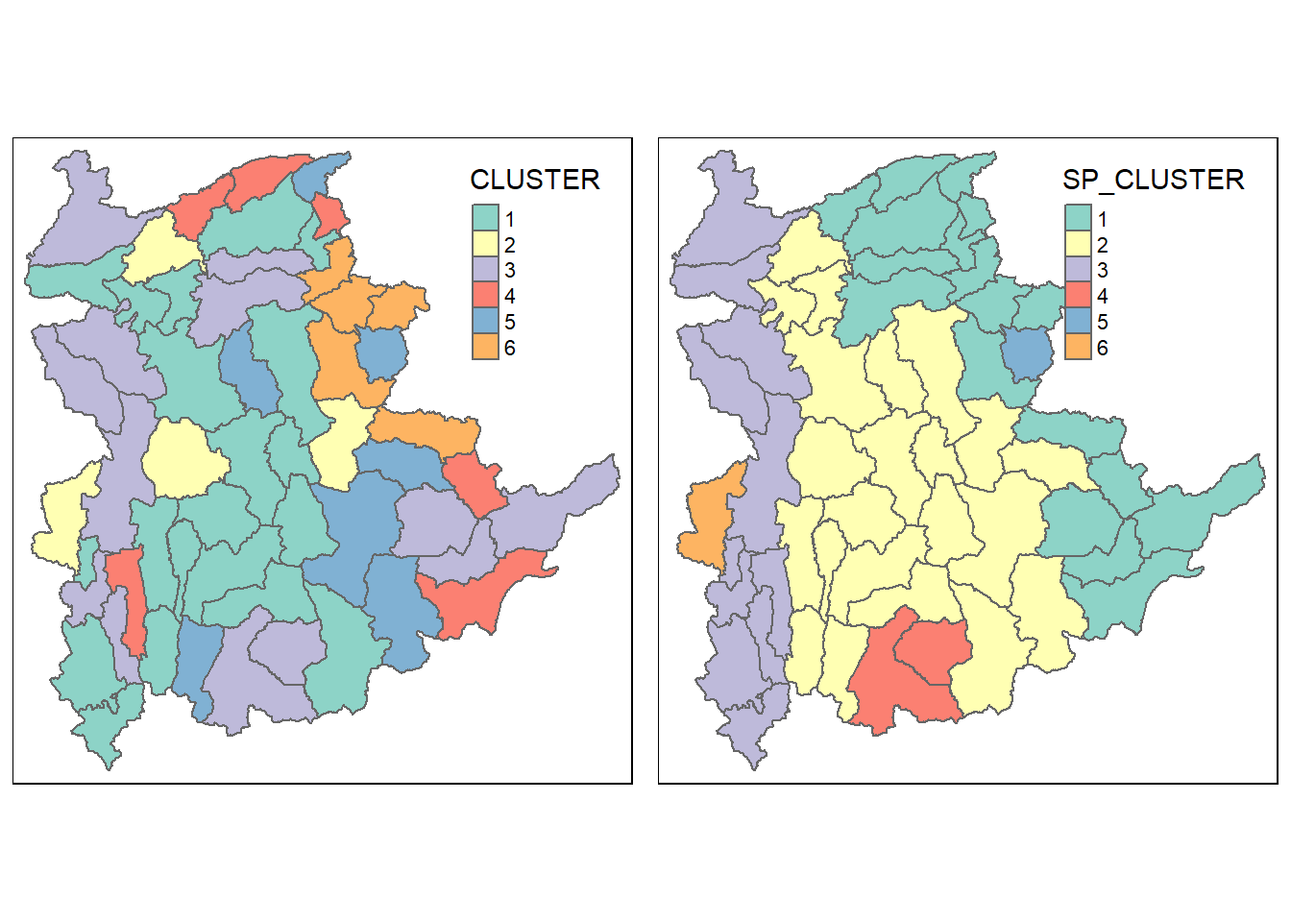
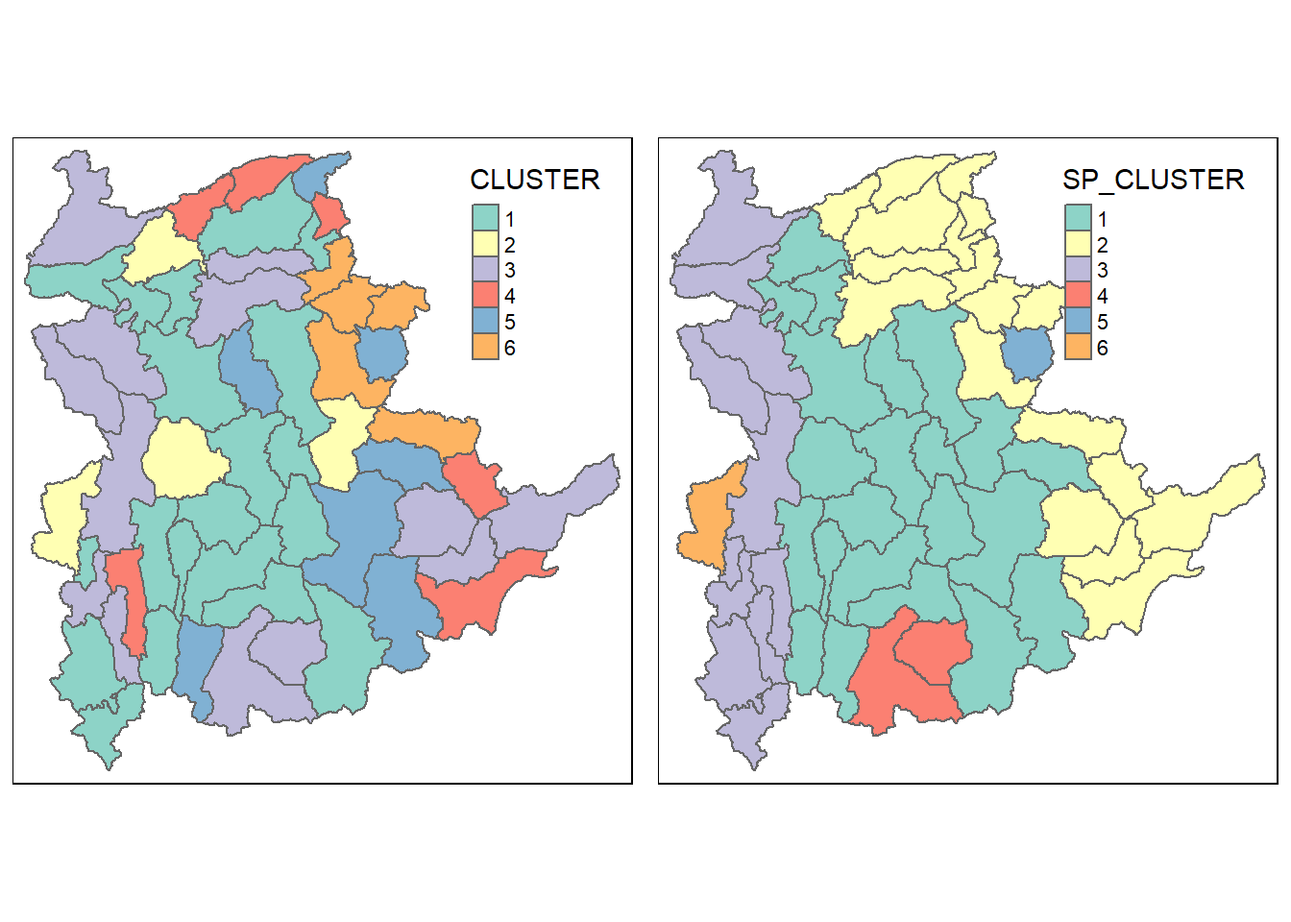
exercise 8

Changed region(s): [[0.5938, 0.1562, 1.0, 0.7812]]

diff --git a/_site/Hands-on_Ex/Hands-on_Ex08/Hands-on_Ex08.html b/_site/Hands-on_Ex/Hands-on_Ex08/Hands-on_Ex08.html
@@ -240,21 +240,21 @@ pre > code.sourceCode > span > a:first-child::before { text-decoration: underlin
   <li><a href="#learning-outcome-explanation" id="toc-learning-outcome-explanation" class="nav-link" data-scroll-target="#learning-outcome-explanation"><strong>Learning Outcome Explanation</strong></a></li>
   <li><a href="#getting-started-explanation" id="toc-getting-started-explanation" class="nav-link" data-scroll-target="#getting-started-explanation"><strong>Getting Started Explanation</strong></a></li>
   <li><a href="#installing-and-loading-r-packages-explanation" id="toc-installing-and-loading-r-packages-explanation" class="nav-link" data-scroll-target="#installing-and-loading-r-packages-explanation"><strong>Installing and Loading R Packages Explanation</strong></a></li>
-  <li><a href="#data-import-and-preparation-explanation" id="toc-data-import-and-preparation-explanation" class="nav-link" data-scroll-target="#data-import-and-preparation-explanation"><strong>Data Import and Preparation Explanation</strong></a></li>
-  <li><a href="#spatially-constrained-clustering-skater-approach" id="toc-spatially-constrained-clustering-skater-approach" class="nav-link" data-scroll-target="#spatially-constrained-clustering-skater-approach"><strong>Spatially Constrained Clustering: SKATER approach</strong></a>
+  <li><a href="#data-import-and-preparation-explanation" id="toc-data-import-and-preparation-explanation" class="nav-link" data-scroll-target="#data-import-and-preparation-explanation"><strong>Data Import and Preparation Explanation</strong></a>
   <ul class="collapse">
-  <li><a href="#computing-neighbour-list" id="toc-computing-neighbour-list" class="nav-link" data-scroll-target="#computing-neighbour-list"><strong>Computing Neighbour List</strong></a></li>
-  <li><a href="#computing-minimum-spanning-tree" id="toc-computing-minimum-spanning-tree" class="nav-link" data-scroll-target="#computing-minimum-spanning-tree"><strong>Computing minimum spanning tree</strong></a></li>
-  <li><a href="#computing-minimum-spanning-tree-1" id="toc-computing-minimum-spanning-tree-1" class="nav-link" data-scroll-target="#computing-minimum-spanning-tree-1"><strong>Computing minimum spanning tree</strong></a></li>
-  <li><a href="#computing-spatially-constrained-clusters-using-skater-method" id="toc-computing-spatially-constrained-clusters-using-skater-method" class="nav-link" data-scroll-target="#computing-spatially-constrained-clusters-using-skater-method"><strong>Computing spatially constrained clusters using SKATER method</strong></a></li>
-  <li><a href="#visualising-the-clusters-in-choropleth-map" id="toc-visualising-the-clusters-in-choropleth-map" class="nav-link" data-scroll-target="#visualising-the-clusters-in-choropleth-map"><strong>Visualising the clusters in choropleth map</strong></a></li>
+  <li><a href="#spatially-constrained-clustering-skater-approach" id="toc-spatially-constrained-clustering-skater-approach" class="nav-link" data-scroll-target="#spatially-constrained-clustering-skater-approach"><strong>Spatially Constrained Clustering: SKATER Approach</strong></a></li>
+  <li><a href="#computing-neighbour-listcomputing-neighbour-list" id="toc-computing-neighbour-listcomputing-neighbour-list" class="nav-link" data-scroll-target="#computing-neighbour-listcomputing-neighbour-list"><strong>Computing Neighbour ListComputing Neighbour List</strong></a></li>
+  <li><a href="#computing-minimum-spanning-tree-mst" id="toc-computing-minimum-spanning-tree-mst" class="nav-link" data-scroll-target="#computing-minimum-spanning-tree-mst"><strong>Computing Minimum Spanning Tree (MST)</strong></a></li>
+  <li><a href="#constructing-the-minimum-spanning-tree" id="toc-constructing-the-minimum-spanning-tree" class="nav-link" data-scroll-target="#constructing-the-minimum-spanning-tree"><strong>Constructing the Minimum Spanning Tree</strong></a></li>
+  <li><a href="#computing-spatially-constrained-clusters-using-the-skater-method" id="toc-computing-spatially-constrained-clusters-using-the-skater-method" class="nav-link" data-scroll-target="#computing-spatially-constrained-clusters-using-the-skater-method"><strong>Computing Spatially Constrained Clusters Using the SKATER Method</strong></a></li>
+  <li><a href="#visualizing-the-clusters-in-a-choropleth-map" id="toc-visualizing-the-clusters-in-a-choropleth-map" class="nav-link" data-scroll-target="#visualizing-the-clusters-in-a-choropleth-map"><strong>Visualizing the Clusters in a Choropleth Map</strong></a></li>
   </ul></li>
-  <li><a href="#spatially-constrained-clustering-clustgeo-method" id="toc-spatially-constrained-clustering-clustgeo-method" class="nav-link" data-scroll-target="#spatially-constrained-clustering-clustgeo-method"><strong>Spatially Constrained Clustering: ClustGeo Method</strong></a>
+  <li><a href="#spatially-constrained-clustering-using-the-clustgeo-method" id="toc-spatially-constrained-clustering-using-the-clustgeo-method" class="nav-link" data-scroll-target="#spatially-constrained-clustering-using-the-clustgeo-method"><strong>Spatially Constrained Clustering Using the ClustGeo Method</strong></a>
   <ul class="collapse">
-  <li><a href="#a-short-note-about-clustgeo-package" id="toc-a-short-note-about-clustgeo-package" class="nav-link" data-scroll-target="#a-short-note-about-clustgeo-package"><strong>A short note about ClustGeo package</strong></a></li>
-  <li><a href="#ward-like-hierarchical-clustering-clustgeo" id="toc-ward-like-hierarchical-clustering-clustgeo" class="nav-link" data-scroll-target="#ward-like-hierarchical-clustering-clustgeo"><strong>Ward-like hierarchical clustering: ClustGeo</strong></a></li>
+  <li><a href="#ward-like-hierarchical-clustering-using-clustgeo" id="toc-ward-like-hierarchical-clustering-using-clustgeo" class="nav-link" data-scroll-target="#ward-like-hierarchical-clustering-using-clustgeo"><strong>Ward-Like Hierarchical Clustering Using ClustGeo</strong></a></li>
   <li><a href="#spatially-constrained-hierarchical-clustering" id="toc-spatially-constrained-hierarchical-clustering" class="nav-link" data-scroll-target="#spatially-constrained-hierarchical-clustering"><strong>Spatially Constrained Hierarchical Clustering</strong></a></li>
   </ul></li>
+  <li><a href="#visual-interpretation-of-clusters" id="toc-visual-interpretation-of-clusters" class="nav-link" data-scroll-target="#visual-interpretation-of-clusters"><strong>Visual Interpretation of Clusters</strong></a></li>
   </ul></li>
   </ul>
 </nav>
@@ -442,14 +442,16 @@ dbl (7): Total households, Radio, Television, Land line phone, Mobile phone,...
 </div>
 </div>
 </section>
-</section>
-<section id="spatially-constrained-clustering-skater-approach" class="level2">
-<h2 class="anchored" data-anchor-id="spatially-constrained-clustering-skater-approach"><strong>Spatially Constrained Clustering: SKATER approach</strong></h2>
+<section id="spatially-constrained-clustering-skater-approach" class="level3">
+<h3 class="anchored" data-anchor-id="spatially-constrained-clustering-skater-approach"><strong>Spatially Constrained Clustering: SKATER Approach</strong></h3>
+<p>In this section, I applied the <strong>SKATER (Spatial ’K’luster Analysis by Tree Edge Removal)</strong> approach to perform spatially constrained clustering. I started by converting the <code>shan_sf</code> spatial data into an <code>as_Spatial()</code> format, which is necessary for certain spatial clustering methods.</p>
 <div class="cell">
 <div class="sourceCode cell-code" id="cb12"><pre class="sourceCode r code-with-copy"><code class="sourceCode r"><span id="cb12-1"><a href="#cb12-1" aria-hidden="true" tabindex="-1"></a>shan_sp <span class="ot">&lt;-</span> <span class="fu">as_Spatial</span>(shan_sf)</span></code><button title="Copy to Clipboard" class="code-copy-button"><i class="bi"></i></button></pre></div>
 </div>
-<section id="computing-neighbour-list" class="level3">
-<h3 class="anchored" data-anchor-id="computing-neighbour-list"><strong>Computing Neighbour List</strong></h3>
+</section>
+<section id="computing-neighbour-listcomputing-neighbour-list" class="level3">
+<h3 class="anchored" data-anchor-id="computing-neighbour-listcomputing-neighbour-list"><strong>Computing Neighbour ListComputing Neighbour List</strong></h3>
+<p>I created a neighbor list using the <code>poly2nb()</code> function, which identifies which polygons (townships) in <code>shan_sp</code> share borders. The neighbor relationships are crucial for defining the spatial structure of the data, and I summarized the neighbor list to understand its characteristics.</p>
 <div class="cell">
 <div class="sourceCode cell-code" id="cb13"><pre class="sourceCode r code-with-copy"><code class="sourceCode r"><span id="cb13-1"><a href="#cb13-1" aria-hidden="true" tabindex="-1"></a>shan.nb <span class="ot">&lt;-</span> <span class="fu">poly2nb</span>(shan_sp)</span>
 <span id="cb13-2"><a href="#cb13-2" aria-hidden="true" tabindex="-1"></a><span class="fu">summary</span>(shan.nb)</span></code><button title="Copy to Clipboard" class="code-copy-button"><i class="bi"></i></button></pre></div>
@@ -489,10 +491,11 @@ Link number distribution:
 </div>
 </div>
 </section>
-<section id="computing-minimum-spanning-tree" class="level3">
-<h3 class="anchored" data-anchor-id="computing-minimum-spanning-tree"><strong>Computing minimum spanning tree</strong></h3>
+<section id="computing-minimum-spanning-tree-mst" class="level3">
+<h3 class="anchored" data-anchor-id="computing-minimum-spanning-tree-mst"><strong>Computing Minimum Spanning Tree (MST)</strong></h3>
 <section id="calculating-edge-costs" class="level4">
-<h4 class="anchored" data-anchor-id="calculating-edge-costs">Calculating edge costs</h4>
+<h4 class="anchored" data-anchor-id="calculating-edge-costs"><strong>Calculating Edge Costs</strong></h4>
+<p>I calculated the edge costs for the minimum spanning tree based on the ICT variables. First, I prepared the <code>ict_derived</code> dataset by calculating the proportion of households with each ICT service and merged this dataset with the <code>shan_sf</code> spatial data.</p>
 <div class="cell">
 <div class="sourceCode cell-code" id="cb17"><pre class="sourceCode r code-with-copy"><code class="sourceCode r"><span id="cb17-1"><a href="#cb17-1" aria-hidden="true" tabindex="-1"></a>ict_derived <span class="ot">&lt;-</span> ict <span class="sc">%&gt;%</span></span>
 <span id="cb17-2"><a href="#cb17-2" aria-hidden="true" tabindex="-1"></a>  <span class="fu">mutate</span>(<span class="st">`</span><span class="at">RADIO_PR</span><span class="st">`</span> <span class="ot">=</span> <span class="st">`</span><span class="at">Radio</span><span class="st">`</span><span class="sc">/</span><span class="st">`</span><span class="at">Total households</span><span class="st">`</span><span class="sc">*</span><span class="dv">1000</span>) <span class="sc">%&gt;%</span></span>
@@ -589,8 +592,9 @@ B 55 3025 76267.65 58260785 522016004</code></pre>
 </div>
 </section>
 </section>
-<section id="computing-minimum-spanning-tree-1" class="level3">
-<h3 class="anchored" data-anchor-id="computing-minimum-spanning-tree-1"><strong>Computing minimum spanning tree</strong></h3>
+<section id="constructing-the-minimum-spanning-tree" class="level3">
+<h3 class="anchored" data-anchor-id="constructing-the-minimum-spanning-tree"><strong>Constructing the Minimum Spanning Tree</strong></h3>
+<p>I computed the minimum spanning tree (MST) from the list-weight object using the <code>mstree()</code> function.</p>
 <div class="cell">
 <div class="sourceCode cell-code" id="cb29"><pre class="sourceCode r code-with-copy"><code class="sourceCode r"><span id="cb29-1"><a href="#cb29-1" aria-hidden="true" tabindex="-1"></a>shan.mst <span class="ot">&lt;-</span> <span class="fu">mstree</span>(shan.w)</span></code><button title="Copy to Clipboard" class="code-copy-button"><i class="bi"></i></button></pre></div>
 </div>
@@ -610,12 +614,12 @@ B 55 3025 76267.65 58260785 522016004</code></pre>
 <div class="sourceCode cell-code" id="cb34"><pre class="sourceCode r code-with-copy"><code class="sourceCode r"><span id="cb34-1"><a href="#cb34-1" aria-hidden="true" tabindex="-1"></a><span class="fu">head</span>(shan.mst)</span></code><button title="Copy to Clipboard" class="code-copy-button"><i class="bi"></i></button></pre></div>
 <div class="cell-output cell-output-stdout">
 <pre><code>     [,1] [,2]      [,3]
-[1,]   32   43 221.47613
-[2,]   43   38 202.45004
-[3,]   38   51 146.66661
-[4,]   51   30 108.37735
-[5,]   30   27  57.60801
-[6,]   27   41  78.29342</code></pre>
+[1,]   31   25 229.44658
+[2,]   25   10 163.95741
+[3,]   10    1 144.02475
+[4,]   10    9 157.04230
+[5,]    9    8  90.82891
+[6,]    8    6 140.01101</code></pre>
 </div>
 </div>
 <div class="cell">
@@ -636,8 +640,10 @@ B 55 3025 76267.65 58260785 522016004</code></pre>
 </div>
 </div>
 </section>
-<section id="computing-spatially-constrained-clusters-using-skater-method" class="level3">
-<h3 class="anchored" data-anchor-id="computing-spatially-constrained-clusters-using-skater-method"><strong>Computing spatially constrained clusters using SKATER method</strong></h3>
+<section id="computing-spatially-constrained-clusters-using-the-skater-method" class="level3">
+<h3 class="anchored" data-anchor-id="computing-spatially-constrained-clusters-using-the-skater-method"><strong>Computing Spatially Constrained Clusters Using the SKATER Method</strong></h3>
+<p>I performed spatially constrained clustering using the <strong>SKATER</strong> method. The SKATER algorithm removes edges from the minimum spanning tree to create clusters based on both spatial proximity and similarity in ICT indicators.</p>
+<p>I used the <code>spdep::skater()</code> function to compute 6 clusters (by making 5 cuts) based on the MST (Minimum Spanning Tree) and the ICT indicators.</p>
 <div class="cell">
 <div class="sourceCode cell-code" id="cb37"><pre class="sourceCode r code-with-copy"><code class="sourceCode r"><span id="cb37-1"><a href="#cb37-1" aria-hidden="true" tabindex="-1"></a>clust6 <span class="ot">&lt;-</span> spdep<span class="sc">::</span><span class="fu">skater</span>(<span class="at">edges =</span> shan.mst[,<span class="dv">1</span><span class="sc">:</span><span class="dv">2</span>], </span>
 <span id="cb37-2"><a href="#cb37-2" aria-hidden="true" tabindex="-1"></a>                 <span class="at">data =</span> shan_ict, </span>
@@ -651,13 +657,13 @@ B 55 3025 76267.65 58260785 522016004</code></pre>
  $ groups      : num [1:55] 3 3 6 3 3 3 3 3 3 3 ...
  $ edges.groups:List of 6
   ..$ :List of 3
-  .. ..$ node: num [1:18] 47 27 53 43 42 15 41 38 32 51 ...
-  .. ..$ edge: num [1:17, 1:3] 53 15 42 43 41 38 15 27 15 32 ...
-  .. ..$ ssw : num 3759
-  ..$ :List of 3
-  .. ..$ node: num [1:22] 13 48 54 55 45 37 34 16 25 52 ...
-  .. ..$ edge: num [1:21, 1:3] 48 55 54 37 34 16 45 25 13 13 ...
+  .. ..$ node: num [1:22] 13 48 54 55 45 37 34 16 25 31 ...
+  .. ..$ edge: num [1:21, 1:3] 48 55 54 37 34 16 45 31 13 13 ...
   .. ..$ ssw : num 3423
+  ..$ :List of 3
+  .. ..$ node: num [1:18] 47 27 53 38 42 15 41 51 43 32 ...
+  .. ..$ edge: num [1:17, 1:3] 53 15 42 38 41 51 15 27 15 43 ...
+  .. ..$ ssw : num 3759
   ..$ :List of 3
   .. ..$ node: num [1:11] 2 6 8 1 36 4 10 9 46 5 ...
   .. ..$ edge: num [1:10, 1:3] 6 1 8 36 4 6 8 10 10 9 ...
@@ -687,8 +693,8 @@ B 55 3025 76267.65 58260785 522016004</code></pre>
 <div class="sourceCode cell-code" id="cb40"><pre class="sourceCode r code-with-copy"><code class="sourceCode r"><span id="cb40-1"><a href="#cb40-1" aria-hidden="true" tabindex="-1"></a>ccs6 <span class="ot">&lt;-</span> clust6<span class="sc">$</span>groups</span>
 <span id="cb40-2"><a href="#cb40-2" aria-hidden="true" tabindex="-1"></a>ccs6</span></code><button title="Copy to Clipboard" class="code-copy-button"><i class="bi"></i></button></pre></div>
 <div class="cell-output cell-output-stdout">
-<pre><code> [1] 3 3 6 3 3 3 3 3 3 3 1 2 2 2 1 2 2 2 1 4 2 1 5 2 2 2 1 2 1 1 2 1 1 2 2 3 2 1
-[39] 1 1 1 1 1 4 2 3 1 2 2 2 1 2 1 2 2</code></pre>
+<pre><code> [1] 3 3 6 3 3 3 3 3 3 3 2 1 1 1 2 1 1 1 2 4 1 2 5 1 1 1 2 1 2 2 1 2 2 1 1 3 1 2
+[39] 2 2 2 2 2 4 1 3 2 1 1 1 2 1 2 1 1</code></pre>
 </div>
 </div>
 <div class="cell">
@@ -696,7 +702,7 @@ B 55 3025 76267.65 58260785 522016004</code></pre>
 <div class="cell-output cell-output-stdout">
 <pre><code>ccs6
  1  2  3  4  5  6 
-18 22 11  2  1  1 </code></pre>
+22 18 11  2  1  1 </code></pre>
 </div>
 </div>
 <div class="cell">
@@ -727,8 +733,9 @@ Warning in segments(coords[id1, 1], coords[id1, 2], coords[id2, 1], coords[id2,
 </div>
 </div>
 </section>
-<section id="visualising-the-clusters-in-choropleth-map" class="level3">
-<h3 class="anchored" data-anchor-id="visualising-the-clusters-in-choropleth-map"><strong>Visualising the clusters in choropleth map</strong></h3>
+<section id="visualizing-the-clusters-in-a-choropleth-map" class="level3">
+<h3 class="anchored" data-anchor-id="visualizing-the-clusters-in-a-choropleth-map"><strong>Visualizing the Clusters in a Choropleth Map</strong></h3>
+<p>To visualize the clusters further, I computed a distance matrix using the Euclidean method and applied hierarchical clustering (<code>hclust</code>) to compare it with the SKATER clusters. I also created a choropleth map to display both sets of clusters side by side.</p>
 <div class="cell">
 <div class="sourceCode cell-code" id="cb46"><pre class="sourceCode r code-with-copy"><code class="sourceCode r"><span id="cb46-1"><a href="#cb46-1" aria-hidden="true" tabindex="-1"></a>proxmat <span class="ot">&lt;-</span> <span class="fu">dist</span>(shan_ict, <span class="at">method =</span> <span class="st">'euclidean'</span>)</span></code><button title="Copy to Clipboard" class="code-copy-button"><i class="bi"></i></button></pre></div>
 </div>
@@ -784,16 +791,16 @@ tm_shape prior to each of them).</code></pre>
 </div>
 </section>
 </section>
-<section id="spatially-constrained-clustering-clustgeo-method" class="level2">
-<h2 class="anchored" data-anchor-id="spatially-constrained-clustering-clustgeo-method"><strong>Spatially Constrained Clustering: ClustGeo Method</strong></h2>
-<section id="a-short-note-about-clustgeo-package" class="level3">
-<h3 class="anchored" data-anchor-id="a-short-note-about-clustgeo-package"><strong>A short note about ClustGeo package</strong></h3>
-<p><a href="https://cran.r-project.org/web/packages/ClustGeo/"><strong>ClustGeo</strong></a> package is an R package specially designed to support the need of performing spatially constrained cluster analysis. More specifically, it provides a Ward-like hierarchical clustering algorithm called <code>hclustgeo()</code> including spatial/geographical constraints.</p>
-<p>In the nutshell, the algorithm uses two dissimilarity matrices D0 and D1 along with a mixing parameter alpha, whereby the value of alpha must be a real number between [0, 1]. D0 can be non-Euclidean and the weights of the observations can be non-uniform. It gives the dissimilarities in the <strong>attribute/clustering variable space</strong>. D1, on the other hand, gives the dissimilarities in the <strong>constraint space</strong>. The criterion minimised at each stage is a convex combination of the homogeneity criterion calculated with D0 and the homogeneity criterion calculated with D1.</p>
-<p>The idea is then to determine a value of alpha which increases the spatial contiguity without deteriorating too much the quality of the solution based on the variables of interest. This need is supported by a function called <code>choicealpha()</code>.</p>
+<section id="spatially-constrained-clustering-using-the-clustgeo-method" class="level2">
+<h2 class="anchored" data-anchor-id="spatially-constrained-clustering-using-the-clustgeo-method"><strong>Spatially Constrained Clustering Using the ClustGeo Method</strong></h2>
+<section id="a-short-note-about-clustgeo-package" class="level4">
+<h4 class="anchored" data-anchor-id="a-short-note-about-clustgeo-package"><strong>A Short Note About ClustGeo Package</strong></h4>
+<p>The <code>ClustGeo</code> package allows me to perform spatially constrained cluster analysis by combining attribute-based dissimilarity and spatial/geographical constraints. It offers a Ward-like hierarchical clustering algorithm (<code>hclustgeo()</code>) that accounts for both data attributes and spatial relationships.</p>
+<p>I used two dissimilarity matrices: <code>D0</code> for attributes (such as ICT variables) and <code>D1</code> for spatial constraints. The goal is to find a balance between the two by using a mixing parameter, alpha. This parameter influences how much weight is given to spatial proximity when forming clusters.</p>
 </section>
-<section id="ward-like-hierarchical-clustering-clustgeo" class="level3">
-<h3 class="anchored" data-anchor-id="ward-like-hierarchical-clustering-clustgeo"><strong>Ward-like hierarchical clustering: ClustGeo</strong></h3>
+<section id="ward-like-hierarchical-clustering-using-clustgeo" class="level3">
+<h3 class="anchored" data-anchor-id="ward-like-hierarchical-clustering-using-clustgeo"><strong>Ward-Like Hierarchical Clustering Using ClustGeo</strong></h3>
+<p>I began by performing standard hierarchical clustering using <code>hclustgeo()</code> based on the attribute dissimilarity matrix (<code>proxmat</code>).</p>
 <div class="cell">
 <div class="sourceCode cell-code" id="cb53"><pre class="sourceCode r code-with-copy"><code class="sourceCode r"><span id="cb53-1"><a href="#cb53-1" aria-hidden="true" tabindex="-1"></a>nongeo_cluster <span class="ot">&lt;-</span> <span class="fu">hclustgeo</span>(proxmat)</span>
 <span id="cb53-2"><a href="#cb53-2" aria-hidden="true" tabindex="-1"></a><span class="fu">plot</span>(nongeo_cluster, <span class="at">cex =</span> <span class="fl">0.5</span>)</span>
@@ -831,6 +838,7 @@ tm_shape prior to each of them).</code></pre>
 </section>
 <section id="spatially-constrained-hierarchical-clustering" class="level3">
 <h3 class="anchored" data-anchor-id="spatially-constrained-hierarchical-clustering"><strong>Spatially Constrained Hierarchical Clustering</strong></h3>
+<p>To introduce spatial constraints, I computed the distance matrix between townships using <code>st_distance()</code> and then used the <code>choicealpha()</code> function to find an optimal value for alpha that balances spatial contiguity and clustering quality.</p>
 <div class="cell">
 <div class="sourceCode cell-code" id="cb57"><pre class="sourceCode r code-with-copy"><code class="sourceCode r"><span id="cb57-1"><a href="#cb57-1" aria-hidden="true" tabindex="-1"></a>dist <span class="ot">&lt;-</span> <span class="fu">st_distance</span>(shan_sf, shan_sf)</span>
 <span id="cb57-2"><a href="#cb57-2" aria-hidden="true" tabindex="-1"></a>distmat <span class="ot">&lt;-</span> <span class="fu">as.dist</span>(dist)</span></code><button title="Copy to Clipboard" class="code-copy-button"><i class="bi"></i></button></pre></div>
@@ -874,6 +882,68 @@ tm_shape prior to each of them).</code></pre>
 <p><img src="Hands-on_Ex08_files/figure-html/unnamed-chunk-45-1.png" class="img-fluid figure-img" width="672"></p>
 </figure>
 </div>
+</div>
+</div>
+</section>
+</section>
+<section id="visual-interpretation-of-clusters" class="level2">
+<h2 class="anchored" data-anchor-id="visual-interpretation-of-clusters"><strong>Visual Interpretation of Clusters</strong></h2>
+<section id="visualizing-individual-clustering-variables" class="level4">
+<h4 class="anchored" data-anchor-id="visualizing-individual-clustering-variables"><strong>Visualizing Individual Clustering Variables</strong></h4>
+<p>I created boxplots to explore how the values of individual ICT indicators vary across the clusters formed.</p>
+<div class="cell">
+<div class="sourceCode cell-code" id="cb64"><pre class="sourceCode r code-with-copy"><code class="sourceCode r"><span id="cb64-1"><a href="#cb64-1" aria-hidden="true" tabindex="-1"></a><span class="fu">ggplot</span>(<span class="at">data =</span> shan_sf_ngeo_cluster,</span>
+<span id="cb64-2"><a href="#cb64-2" aria-hidden="true" tabindex="-1"></a>       <span class="fu">aes</span>(<span class="at">x =</span> CLUSTER, <span class="at">y =</span> RADIO_PR)) <span class="sc">+</span></span>
+<span id="cb64-3"><a href="#cb64-3" aria-hidden="true" tabindex="-1"></a>  <span class="fu">geom_boxplot</span>()</span></code><button title="Copy to Clipboard" class="code-copy-button"><i class="bi"></i></button></pre></div>
+<div class="cell-output-display">
+<div>
+<figure class="figure">
+<p><img src="Hands-on_Ex08_files/figure-html/unnamed-chunk-46-1.png" class="img-fluid figure-img" width="672"></p>
+</figure>
+</div>
+</div>
+</div>
+</section>
+<section id="multivariate-visualization" class="level4">
+<h4 class="anchored" data-anchor-id="multivariate-visualization"><strong>Multivariate Visualization</strong></h4>
+<p>I used parallel coordinate plots to visualize the multivariate relationships between ICT variables across the clusters.</p>
+<div class="cell">
+<div class="sourceCode cell-code" id="cb65"><pre class="sourceCode r code-with-copy"><code class="sourceCode r"><span id="cb65-1"><a href="#cb65-1" aria-hidden="true" tabindex="-1"></a><span class="fu">ggparcoord</span>(<span class="at">data =</span> shan_sf_ngeo_cluster, </span>
+<span id="cb65-2"><a href="#cb65-2" aria-hidden="true" tabindex="-1"></a>           <span class="at">columns =</span> <span class="fu">c</span>(<span class="dv">17</span><span class="sc">:</span><span class="dv">21</span>), </span>
+<span id="cb65-3"><a href="#cb65-3" aria-hidden="true" tabindex="-1"></a>           <span class="at">scale =</span> <span class="st">"globalminmax"</span>,</span>
+<span id="cb65-4"><a href="#cb65-4" aria-hidden="true" tabindex="-1"></a>           <span class="at">alphaLines =</span> <span class="fl">0.2</span>,</span>
+<span id="cb65-5"><a href="#cb65-5" aria-hidden="true" tabindex="-1"></a>           <span class="at">boxplot =</span> <span class="cn">TRUE</span>, </span>
+<span id="cb65-6"><a href="#cb65-6" aria-hidden="true" tabindex="-1"></a>           <span class="at">title =</span> <span class="st">"Multiple Parallel Coordinates Plots of ICT Variables by Cluster"</span>) <span class="sc">+</span></span>
+<span id="cb65-7"><a href="#cb65-7" aria-hidden="true" tabindex="-1"></a>  <span class="fu">facet_grid</span>(<span class="sc">~</span> CLUSTER) <span class="sc">+</span> </span>
+<span id="cb65-8"><a href="#cb65-8" aria-hidden="true" tabindex="-1"></a>  <span class="fu">theme</span>(<span class="at">axis.text.x =</span> <span class="fu">element_text</span>(<span class="at">angle =</span> <span class="dv">30</span>))</span></code><button title="Copy to Clipboard" class="code-copy-button"><i class="bi"></i></button></pre></div>
+<div class="cell-output-display">
+<div>
+<figure class="figure">
+<p><img src="Hands-on_Ex08_files/figure-html/unnamed-chunk-47-1.png" class="img-fluid figure-img" width="672"></p>
+</figure>
+</div>
+</div>
+</div>
+<div class="cell">
+<div class="sourceCode cell-code" id="cb66"><pre class="sourceCode r code-with-copy"><code class="sourceCode r"><span id="cb66-1"><a href="#cb66-1" aria-hidden="true" tabindex="-1"></a>shan_sf_ngeo_cluster <span class="sc">%&gt;%</span> </span>
+<span id="cb66-2"><a href="#cb66-2" aria-hidden="true" tabindex="-1"></a>  <span class="fu">st_set_geometry</span>(<span class="cn">NULL</span>) <span class="sc">%&gt;%</span></span>
+<span id="cb66-3"><a href="#cb66-3" aria-hidden="true" tabindex="-1"></a>  <span class="fu">group_by</span>(CLUSTER) <span class="sc">%&gt;%</span></span>
+<span id="cb66-4"><a href="#cb66-4" aria-hidden="true" tabindex="-1"></a>  <span class="fu">summarise</span>(<span class="at">mean_RADIO_PR =</span> <span class="fu">mean</span>(RADIO_PR),</span>
+<span id="cb66-5"><a href="#cb66-5" aria-hidden="true" tabindex="-1"></a>            <span class="at">mean_TV_PR =</span> <span class="fu">mean</span>(TV_PR),</span>
+<span id="cb66-6"><a href="#cb66-6" aria-hidden="true" tabindex="-1"></a>            <span class="at">mean_LLPHONE_PR =</span> <span class="fu">mean</span>(LLPHONE_PR),</span>
+<span id="cb66-7"><a href="#cb66-7" aria-hidden="true" tabindex="-1"></a>            <span class="at">mean_MPHONE_PR =</span> <span class="fu">mean</span>(MPHONE_PR),</span>
+<span id="cb66-8"><a href="#cb66-8" aria-hidden="true" tabindex="-1"></a>            <span class="at">mean_COMPUTER_PR =</span> <span class="fu">mean</span>(COMPUTER_PR))</span></code><button title="Copy to Clipboard" class="code-copy-button"><i class="bi"></i></button></pre></div>
+<div class="cell-output cell-output-stdout">
+<pre><code># A tibble: 6 × 6
+  CLUSTER mean_RADIO_PR mean_TV_PR mean_LLPHONE_PR mean_MPHONE_PR
+  &lt;chr&gt;           &lt;dbl&gt;      &lt;dbl&gt;           &lt;dbl&gt;          &lt;dbl&gt;
+1 1               221.        521.            44.2           246.
+2 2               237.        402.            23.9           134.
+3 3               300.        611.            52.2           392.
+4 4               196.        744.            99.0           651.
+5 5               124.        224.            38.0           132.
+6 6                98.6       499.            74.5           468.
+# ℹ 1 more variable: mean_COMPUTER_PR &lt;dbl&gt;</code></pre>
 </div>
 </div>
 
